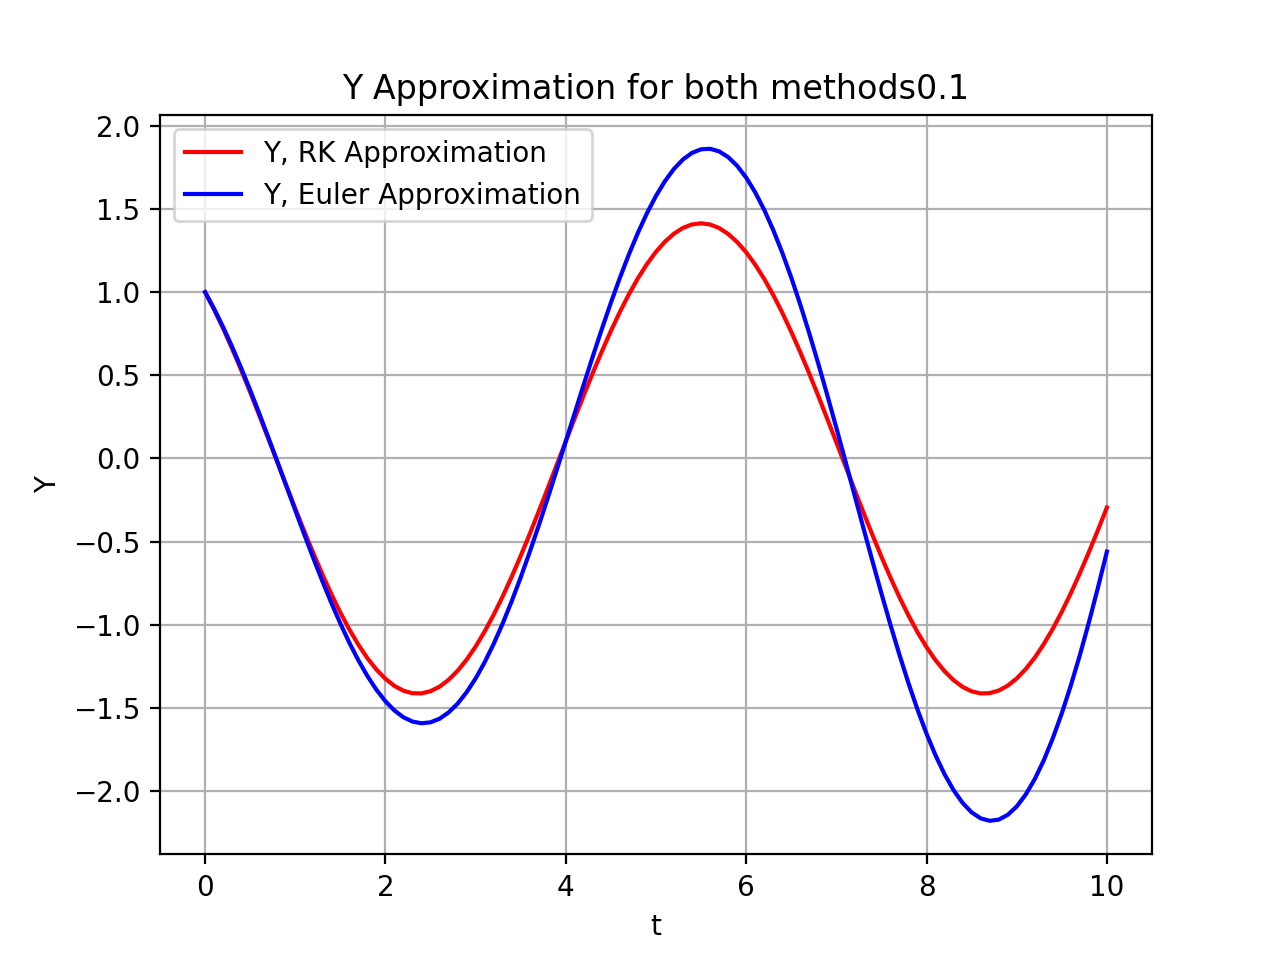
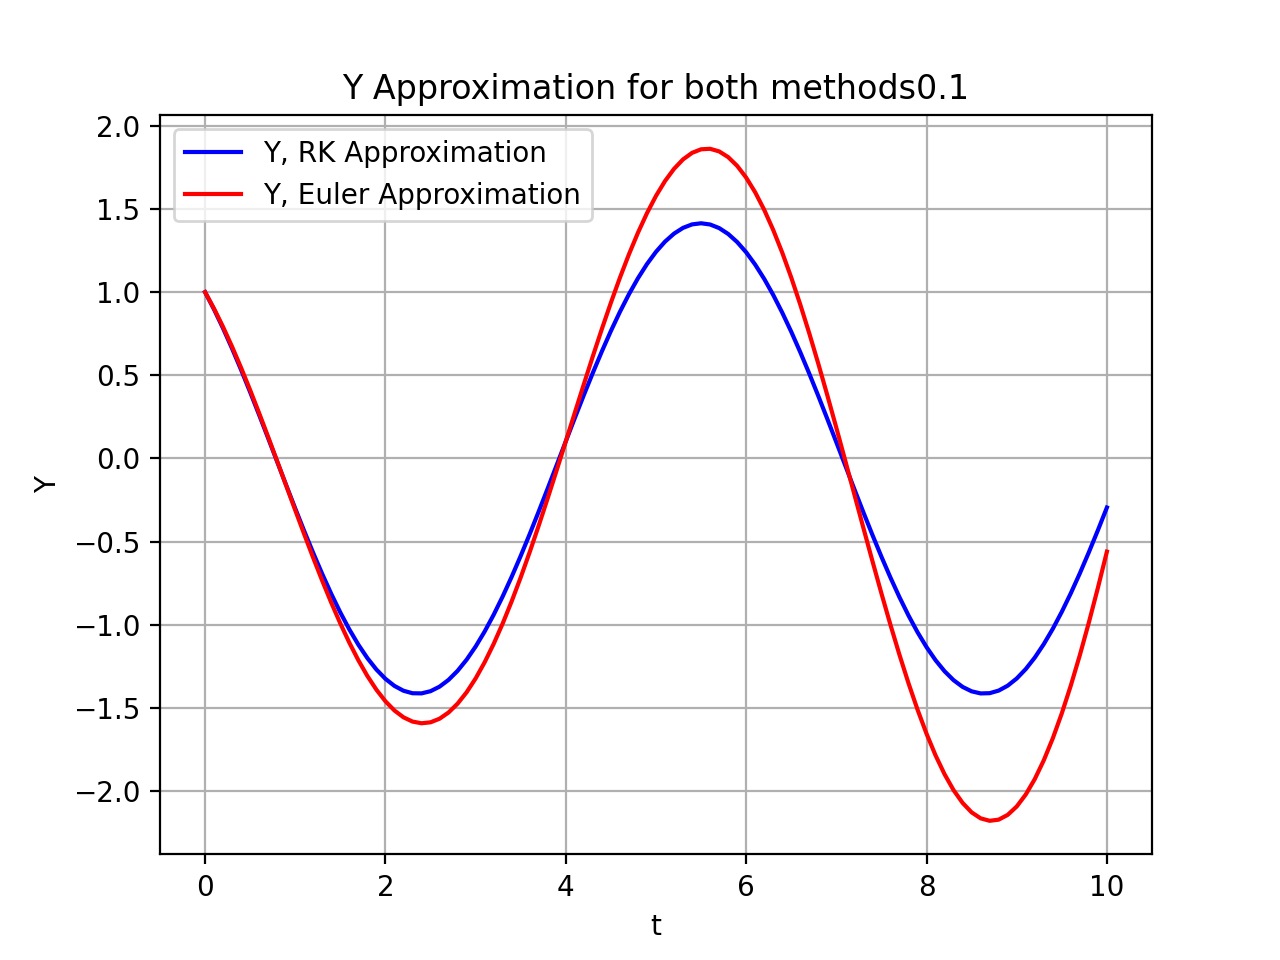
Adding reformatted figures

diff --git a/Week 14/2ndOrderExtension.py b/Week 14/2ndOrderExtension.py
@@ -11,6 +11,8 @@ def euler_step(f,xn,t,h):
     x = xn + h*f(t,xn)
     return x
 
+#Re-do figures!!
+
 def rk_step(f,xn,t,h):
     k1 = f(t,xn)
     k2 = f(t+h/2,xn + h*k1/2)
@@ -29,8 +31,8 @@ def solve_to_system(f, x0, t1, t2, h, step_function):
     return t, xval
 
 h = 0.1
-t,EulerValues = solve_to_system(f1,x0,0,10,h,euler_step)
-t1,RKValues = solve_to_system(f1,x0,0,10,h,rk_step)
+t,EulerValues = solve_to_system(f1,x0,0,100,h,euler_step)
+t1,RKValues = solve_to_system(f1,x0,0,100,h,rk_step)
 
 XEuler = [x[0] for x in EulerValues]
 YEuler = [x[1] for x in EulerValues]
@@ -50,8 +52,8 @@ plt.legend()
 plt.grid()
 plt.show()
 
-plt.plot(t1,YRK,label='Y, RK Approximation',color='red')
-plt.plot(t,YEuler,label='Y, Euler Approximation', color='blue')
+plt.plot(t1,YRK,label='Y, RK Approximation',color='blue')
+plt.plot(t,YEuler,label='Y, Euler Approximation', color='red')
 plt.xlabel('t')
 plt.ylabel('Y')
 plt.title('Y Approximation for both methods'+str(h))
